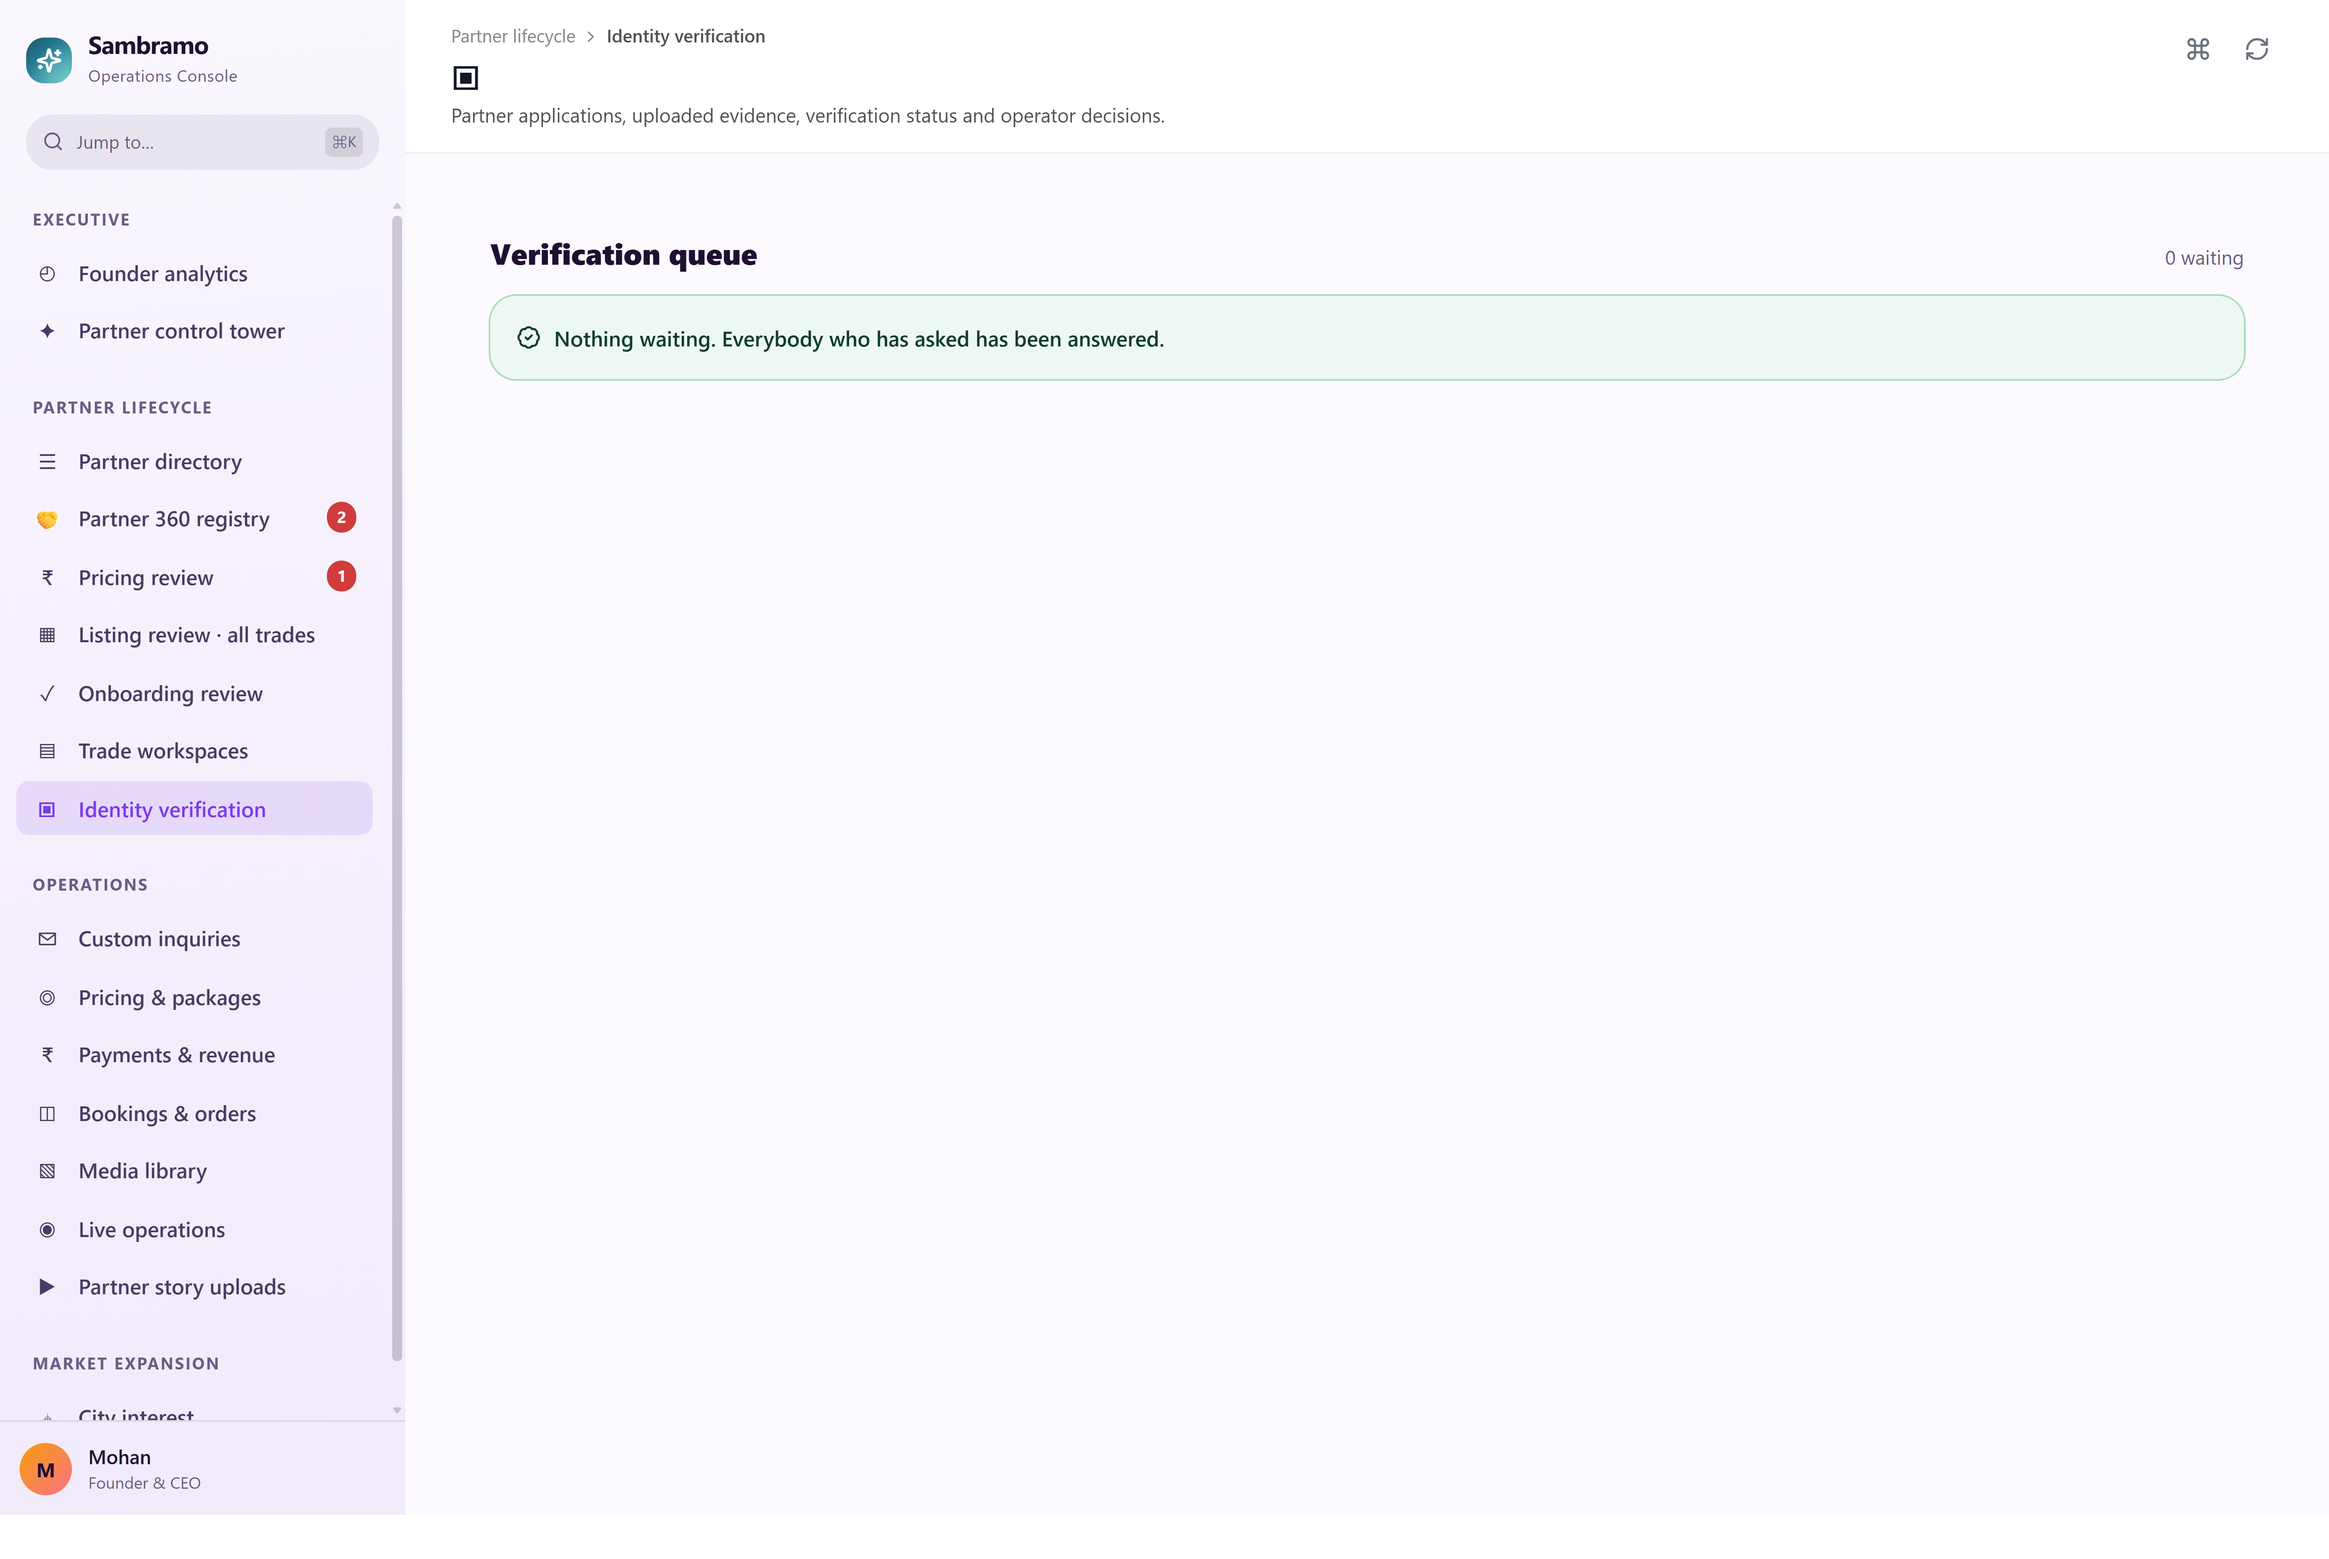
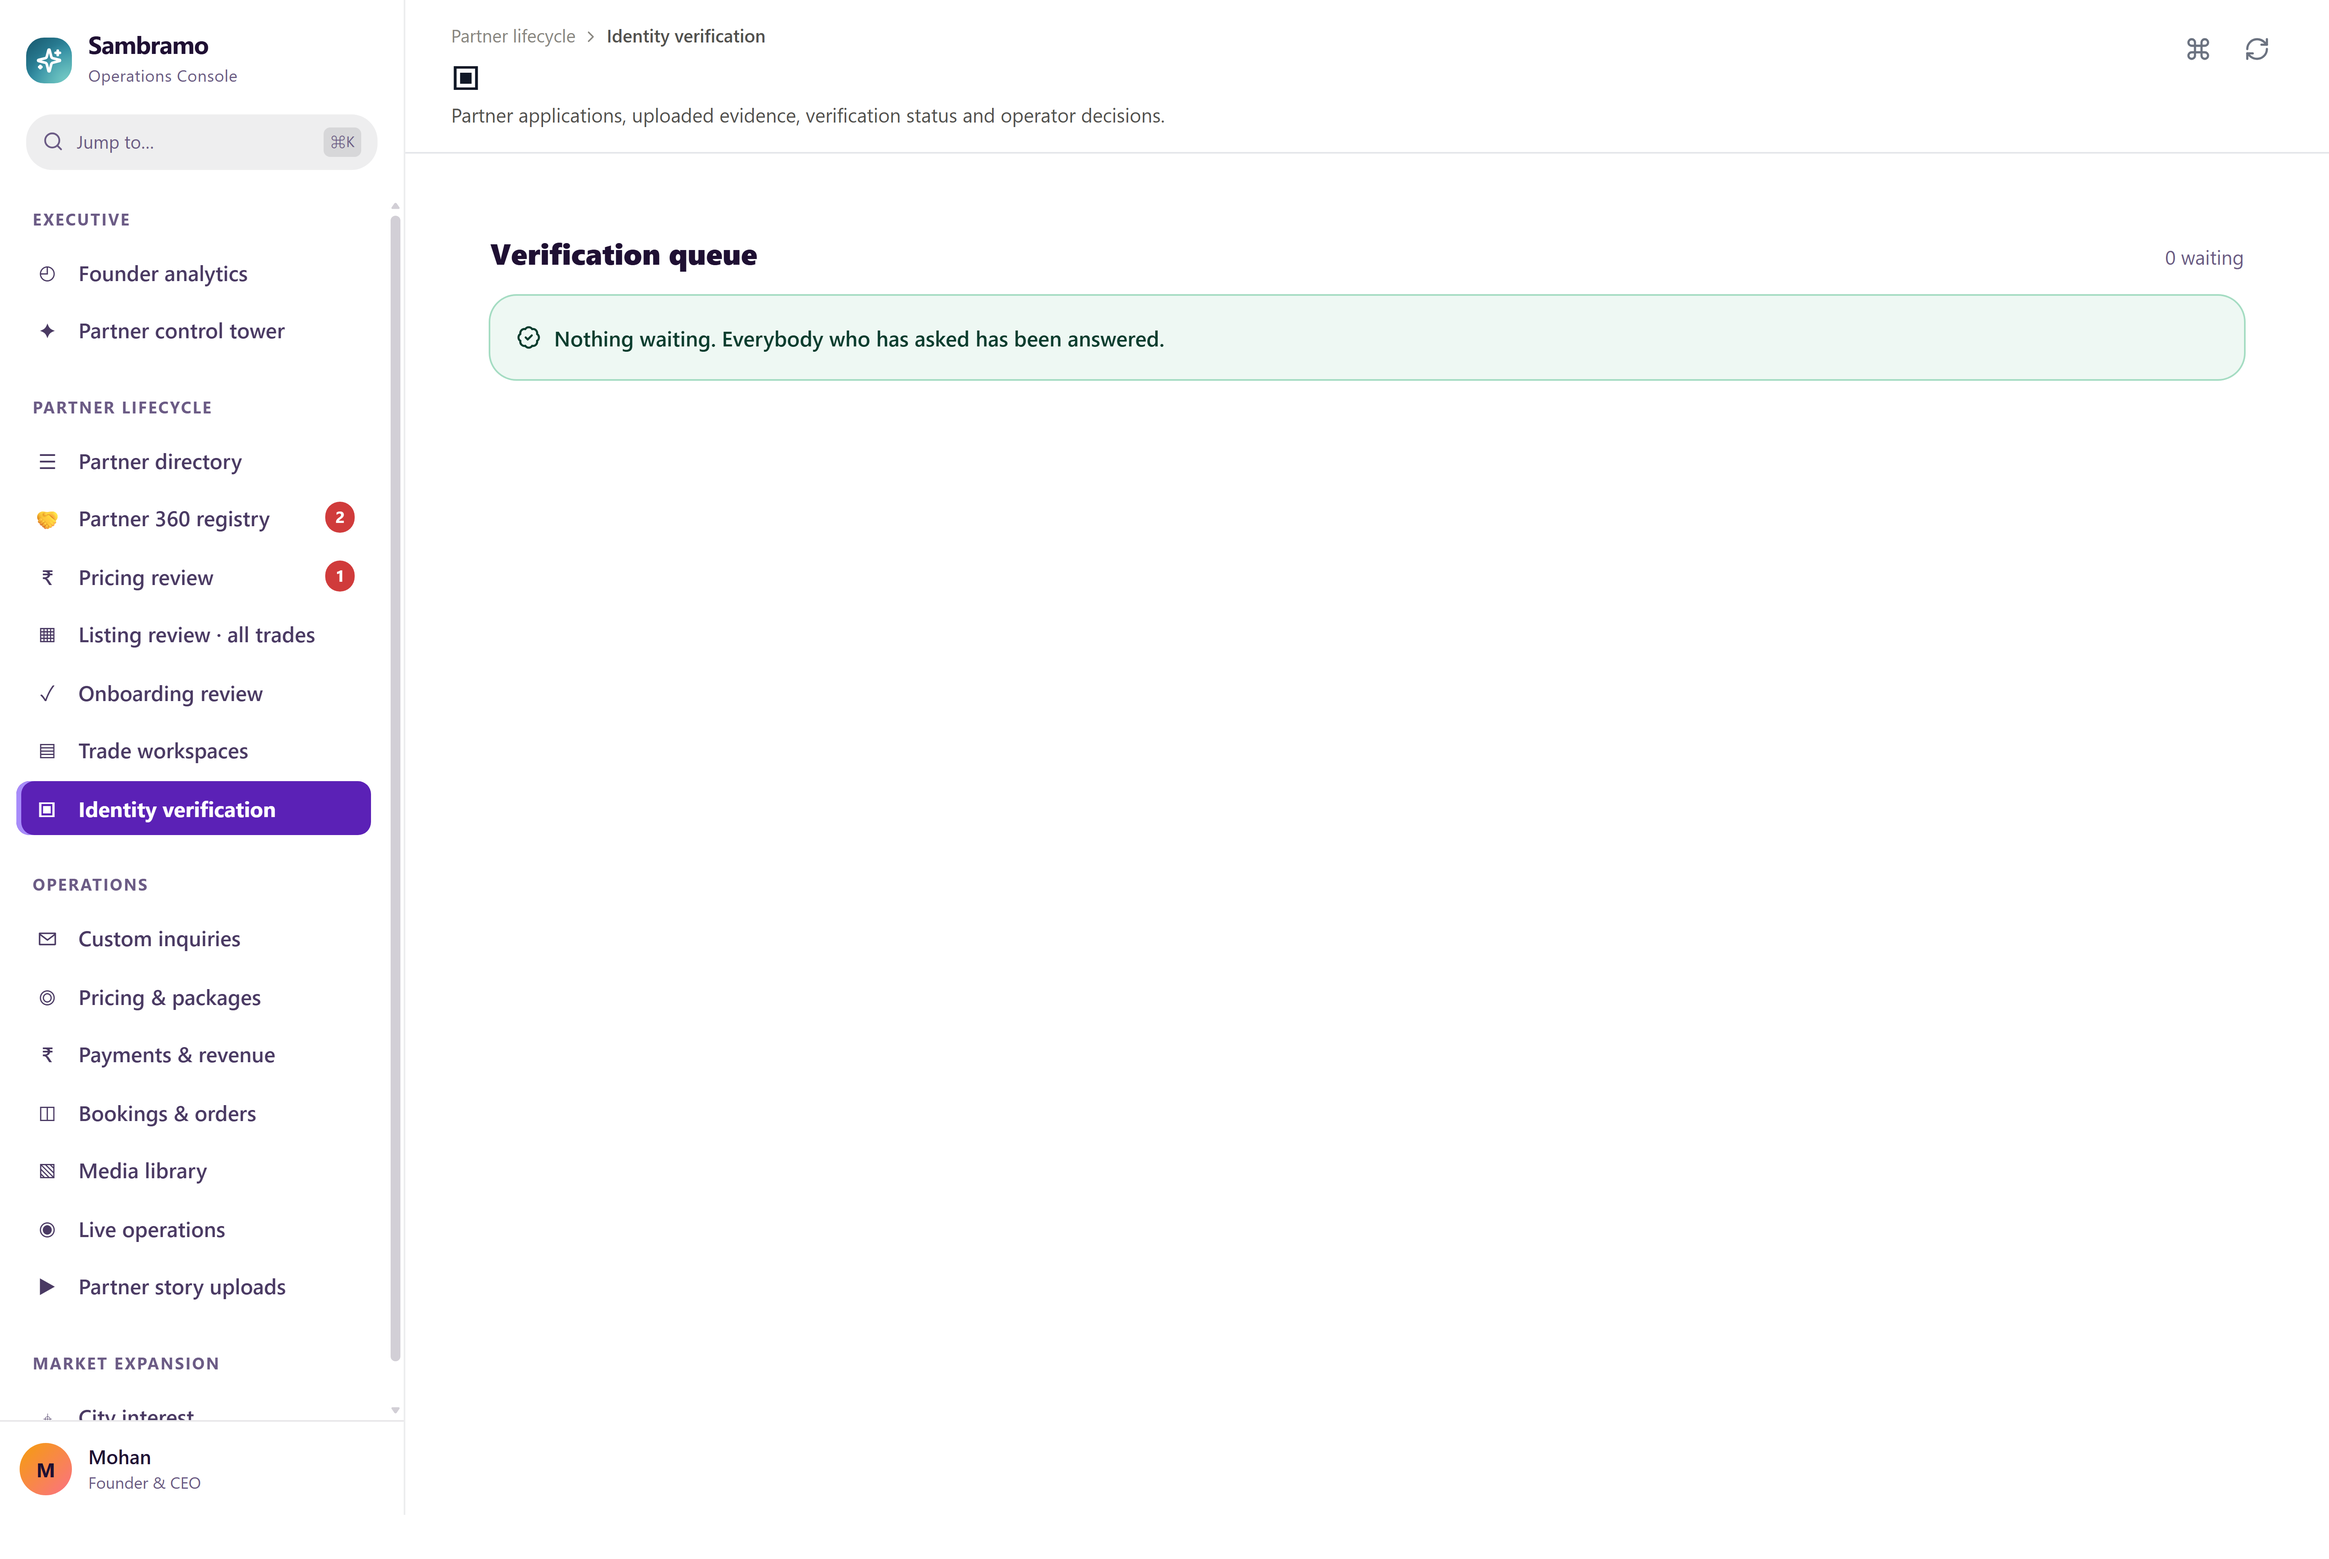
Give the console its own shell: pure white, no customer chrome
THE CELEBRATION BUTTON. /dashboard/admin was wrapped in
DashboardShell, which renders the CUSTOMER Navbar — logo, Celebrations
links, city picker and a "Plan a celebration" call to action — above
AdminShell's own sidebar. Two navigation systems on one screen, and a
CTA inviting an operator to go and book a party. The partner app was
given its own shell for exactly this reason in an earlier pass; admin
never was. It has one now.

PURE WHITE. The console's cards are white, so #FCFAFF behind them
showed through as a wash nobody chose — that is the cream being
reported. Canvas, rail and top bar are all #FFFFFF now, with a hairline
doing the separating that a tint was doing badly. The 64px height
subtraction went with the navbar it was compensating for.

THE ACTIVE NAV ITEM is a solid amethyst pill with an inset bar at the
rail edge, not a 12% wash. On a white rail a tinted pill is nearly
invisible at a glance, which is the one thing a nav item has to
survive. Hover is a real grey rather than a 6% sink.

A DEFECT THE WHITE SHELL EXPOSED: founder analytics printed "Booking
conversion 200%". Lines divided by listings is not a conversion rate,
and a rate above 100% is the giveaway. A real one needs a funnel —
requests raised against requests that converted — and booking_requests
carries no outcome column, so it now says it is not measurable and
names what is missing. The unused pct() helper went with it.

Verified: all 17 admin screens render with no console errors, before
and after.

Changed region(s): [[0.0, 0.499, 0.1874, 0.5613]]

diff --git a/src/components/admin/AdminShell.jsx b/src/components/admin/AdminShell.jsx
@@ -69,7 +69,11 @@ export default function AdminShell({
   }
 
   return (
-    <div className="flex bg-[#FCFAFF]" style={{ minHeight: 'calc(100vh - 64px)' }}>
+    /* Pure white. #FCFAFF read as the cream tint being reported: the
+       console's own cards are white, so any wash behind them shows
+       through as a colour nobody chose. The 64px subtraction went with
+       the customer navbar that no longer sits above this. */
+    <div className="flex bg-white" style={{ minHeight: '100vh' }}>
       {sidebarOpen && (
         <div className="fixed inset-0 bg-black/50 z-30 md:hidden" onClick={() => setSidebarOpen(false)} />
       )}
@@ -83,10 +87,12 @@ export default function AdminShell({
           'md:sticky md:top-0 md:translate-x-0 md:z-auto',
         ].join(' ')}
         style={{
-          // Plum is the product's brand colour everywhere outside the shop.
-          // A vertical ramp rather than a flat fill so the rail has a top and
-          // a bottom — the founder block at the foot sits in the deepest part.
-          background: 'linear-gradient(175deg, #FAF7FE 0%, #F5F0FC 45%, #F1EAFA 100%)',
+          // White, with a hairline doing the separating. The plum ramp was
+          // the other half of the tint: a sidebar that is almost-white
+          // beside cards that are white reads as a mistake rather than a
+          // choice, and amethyst is more useful spent on the active item.
+          background: '#FFFFFF',
+          borderRight: '1px solid rgb(17 24 39 / 0.08)',
           maxHeight: '100vh',
         }}
       >
@@ -154,11 +160,17 @@ export default function AdminShell({
                         // The active item is a filled pill, not a coloured
                         // word: on a dark ground a colour change alone is far
                         // too quiet to find at a glance.
-                        background: on ? 'rgb(var(--accent) / 0.12)' : 'transparent',
-                        color: on ? 'rgb(var(--accent))' : 'rgb(var(--ink-soft))',
-                        fontWeight: on ? 600 : 500,
+                        /* Solid amethyst, not a 12% wash. On a white rail a
+                           tinted pill is nearly invisible at a glance, which
+                           is the one thing a nav item has to survive. The
+                           inset bar on the left gives the eye an anchor at
+                           the rail edge while scanning vertically. */
+                        background: on ? 'rgb(91 33 182)' : 'transparent',
+                        color: on ? '#FFFFFF' : 'rgb(var(--ink-soft))',
+                        fontWeight: on ? 650 : 500,
+                        boxShadow: on ? 'inset 3px 0 0 0 rgb(167 139 250)' : 'none',
                       }}
-                      onMouseEnter={e => { if (!on) e.currentTarget.style.background = 'rgb(var(--surface-sunk) / 0.06)' }}
+                      onMouseEnter={e => { if (!on) e.currentTarget.style.background = 'rgb(243 244 246)' }}
                       onMouseLeave={e => { if (!on) e.currentTarget.style.background = 'transparent' }}
                     >
                       <span className="text-[13px] shrink-0 w-[18px] text-center" aria-hidden="true">{item.emoji}</span>
@@ -204,7 +216,7 @@ export default function AdminShell({
 
       {/* ── The work ─────────────────────────────────────────────────── */}
       <div className="flex-1 flex flex-col min-w-0">
-        <header className="bg-white/85 backdrop-blur-md border-b border-gray-200/70 sticky top-0 z-20">
+        <header className="bg-white border-b border-gray-200 sticky top-0 z-20">
           <div className="px-4 sm:px-7 py-3.5 flex items-start gap-3">
             <button
               onClick={() => setSidebarOpen(true)}

diff --git a/src/components/admin/FounderAnalytics.jsx b/src/components/admin/FounderAnalytics.jsx
@@ -35,8 +35,6 @@ import { supabase } from '../../lib/supabase'
  * letting it read as a result.
  */
 
-const pct = (a, b) => (b ? Math.round((a / b) * 100) : null)
-
 function Metric({ label, value, definition, source, unavailable, reason }) {
   return (
     <div className="rounded-2xl bg-white p-4 ring-1 ring-gray-200">
@@ -221,11 +219,17 @@ export default function FounderAnalytics() {
         <Metric label="Custom inquiries" value={data.quoteRequests ?? 0}
           definition="Quote requests raised by customers."
           source="sambramo_quote_requests" />
-        <Metric label="Booking conversion" unavailable={noDemand}
-          value={`${pct(data.bookingLines, data.liveListings) ?? 0}%`}
-          reason="No bookings exist, so conversion has no numerator. It is not 0% — it is unmeasured."
-          definition="Booking lines against live listings."
-          source="booking_lines ÷ live listings" />
+        {/* Lines ÷ listings is not a conversion rate and rendered 200%,
+            which is the giveaway: a rate cannot exceed 100%. A real
+            conversion needs a funnel — requests raised against requests
+            that became bookings — and booking_requests carries no
+            outcome column to measure it with. Saying so beats printing
+            a confident number that means nothing. */}
+        <Metric label="Booking conversion" unavailable
+          value="—"
+          reason="Not measurable yet: there is no request-to-booking funnel. booking_requests records no outcome, so bookings cannot be divided by anything meaningful."
+          definition="Requests that became bookings."
+          source="needs an outcome on booking_requests" />
         <Metric label="Money in escrow" unavailable={!data.escrowRows} value="—"
           reason="escrow_ledger is empty. This fills the first time a customer pays."
           definition="Customer money captured and not yet released."

diff --git a/src/App.jsx b/src/App.jsx
@@ -322,6 +322,28 @@ function ScreenShell({ children }) {
  * launch in my city" form underneath it was addressed to a customer who is not
  * the person reading this screen.
  */
+/**
+ * The operator console draws its own chrome.
+ *
+ * DashboardShell puts the CUSTOMER Navbar above whatever it wraps —
+ * logo, Celebrations links, city picker and a "Plan a celebration"
+ * call to action. On the admin console that is a second navigation
+ * system stacked on top of AdminShell's sidebar, and the CTA invites
+ * an operator to go and book a party. The partner app was given its
+ * own shell for exactly this reason; admin never was.
+ *
+ * Pure white, because the console's own surfaces are white and the
+ * shell showing through between them as a tint was the "cream
+ * background" being reported.
+ */
+function AdminShellRoute({ children }) {
+  return (
+    <div className="min-h-screen bg-white">
+      <PageBoundary>{children}</PageBoundary>
+    </div>
+  )
+}
+
 function DashboardShell({ children }) {
   return (
     <div className="flex min-h-screen flex-col">
@@ -751,13 +773,13 @@ function AppRoutes() {
       {/* ── Admin ──────────────────────────────────── */}
       <Route path="/dashboard/admin" element={
         <ProtectedRoute allowedRoles={['admin']}>
-          <DashboardShell><AdminDashboard /></DashboardShell>
+          <AdminShellRoute><AdminDashboard /></AdminShellRoute>
         </ProtectedRoute>
       } />
 
       <Route path="/dashboard/admin/submissions/:submissionId" element={
         <ProtectedRoute allowedRoles={['admin']}>
-          <DashboardShell><BusinessSubmissionReview /></DashboardShell>
+          <AdminShellRoute><BusinessSubmissionReview /></AdminShellRoute>
         </ProtectedRoute>
       } />
 
